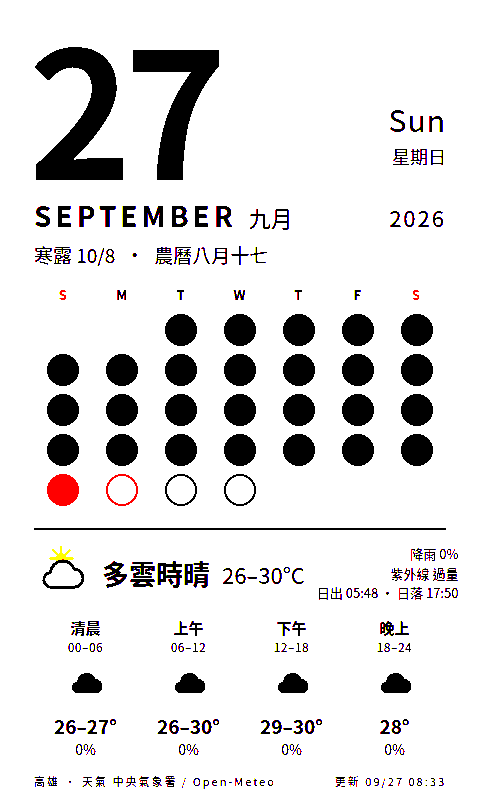
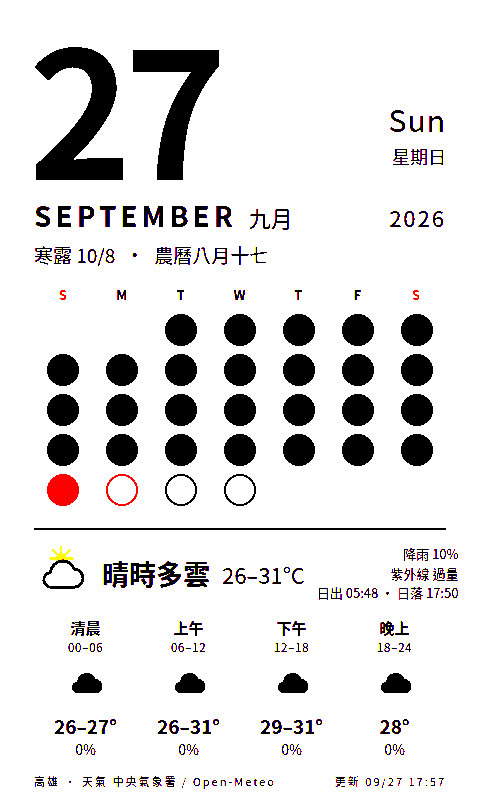
deploy: cf7d1051eb6821bc691ba0ade4beb12cdf9fe0ef

diff --git a/calendar.html b/calendar.html
@@ -54,9 +54,9 @@
   <div class="today"><span class="lunar">寒露 10/8</span><span>·</span><span class="lunar">農曆八月十七</span></div>
   <div class="grid"><div class="h we">S</div><div class="h">M</div><div class="h">T</div><div class="h">W</div><div class="h">T</div><div class="h">F</div><div class="h we">S</div><div class="dot empty"></div><div class="dot empty"></div><div class="dot past" title="1"></div><div class="dot past" title="2"></div><div class="dot past" title="3"></div><div class="dot past" title="4"></div><div class="dot past" title="5"></div><div class="dot past" title="6"></div><div class="dot past" title="7"></div><div class="dot past" title="8"></div><div class="dot past" title="9"></div><div class="dot past" title="10"></div><div class="dot past" title="11"></div><div class="dot past" title="12"></div><div class="dot past" title="13"></div><div class="dot past" title="14"></div><div class="dot past" title="15"></div><div class="dot past" title="16"></div><div class="dot past" title="17"></div><div class="dot past" title="18"></div><div class="dot past" title="19"></div><div class="dot past" title="20"></div><div class="dot past" title="21"></div><div class="dot past" title="22"></div><div class="dot past" title="23"></div><div class="dot past" title="24"></div><div class="dot past" title="25"></div><div class="dot past" title="26"></div><div class="dot now" title="27"></div><div class="dot future hol" title="28"></div><div class="dot future" title="29"></div><div class="dot future" title="30"></div></div>
   <div class="wx"><div class="line">
-    <div class="wxhead"><svg viewBox="0 0 64 68" xmlns="http://www.w3.org/2000/svg"><g transform="translate(12 -4) scale(.6)"><circle cx="32" cy="32" r="11" fill="#f5c400"/><g stroke="#f5c400" stroke-width="4" stroke-linecap="round"><line x1="32" y1="32" x2="32" y2="8" transform="rotate(0 32 32)"/><line x1="32" y1="32" x2="32" y2="8" transform="rotate(45 32 32)"/><line x1="32" y1="32" x2="32" y2="8" transform="rotate(90 32 32)"/><line x1="32" y1="32" x2="32" y2="8" transform="rotate(135 32 32)"/><line x1="32" y1="32" x2="32" y2="8" transform="rotate(180 32 32)"/><line x1="32" y1="32" x2="32" y2="8" transform="rotate(225 32 32)"/><line x1="32" y1="32" x2="32" y2="8" transform="rotate(270 32 32)"/><line x1="32" y1="32" x2="32" y2="8" transform="rotate(315 32 32)"/></g></g><path d="M20 50h26a11 11 0 0 0 1-22 15 15 0 0 0-29 4 9 9 0 0 0 2 18z" fill="#fff" stroke="#000" stroke-width="3.5" stroke-linejoin="round"/></svg><span class="desc">多雲時晴</span><span class="temp">26–30°C</span>
-      <div class="meta">降雨 0%<br>紫外線 過量<br>日出 05:48 · 日落 17:50</div></div>
-    <div class="slots"><div class="slot"><div class="n">清晨</div><div class="hrs">00–06</div><svg viewBox="0 0 64 68" xmlns="http://www.w3.org/2000/svg"><path d="M20 50h26a11 11 0 0 0 1-22 15 15 0 0 0-29 4 9 9 0 0 0 2 18z" fill="#000"/></svg><div class="t">26–27°</div><div class="p dry">0%</div></div><div class="slot"><div class="n">上午</div><div class="hrs">06–12</div><svg viewBox="0 0 64 68" xmlns="http://www.w3.org/2000/svg"><path d="M20 50h26a11 11 0 0 0 1-22 15 15 0 0 0-29 4 9 9 0 0 0 2 18z" fill="#000"/></svg><div class="t">26–30°</div><div class="p dry">0%</div></div><div class="slot"><div class="n">下午</div><div class="hrs">12–18</div><svg viewBox="0 0 64 68" xmlns="http://www.w3.org/2000/svg"><path d="M20 50h26a11 11 0 0 0 1-22 15 15 0 0 0-29 4 9 9 0 0 0 2 18z" fill="#000"/></svg><div class="t">29–30°</div><div class="p dry">0%</div></div><div class="slot"><div class="n">晚上</div><div class="hrs">18–24</div><svg viewBox="0 0 64 68" xmlns="http://www.w3.org/2000/svg"><path d="M20 50h26a11 11 0 0 0 1-22 15 15 0 0 0-29 4 9 9 0 0 0 2 18z" fill="#000"/></svg><div class="t">28°</div><div class="p dry">0%</div></div></div>
+    <div class="wxhead"><svg viewBox="0 0 64 68" xmlns="http://www.w3.org/2000/svg"><g transform="translate(12 -4) scale(.6)"><circle cx="32" cy="32" r="11" fill="#f5c400"/><g stroke="#f5c400" stroke-width="4" stroke-linecap="round"><line x1="32" y1="32" x2="32" y2="8" transform="rotate(0 32 32)"/><line x1="32" y1="32" x2="32" y2="8" transform="rotate(45 32 32)"/><line x1="32" y1="32" x2="32" y2="8" transform="rotate(90 32 32)"/><line x1="32" y1="32" x2="32" y2="8" transform="rotate(135 32 32)"/><line x1="32" y1="32" x2="32" y2="8" transform="rotate(180 32 32)"/><line x1="32" y1="32" x2="32" y2="8" transform="rotate(225 32 32)"/><line x1="32" y1="32" x2="32" y2="8" transform="rotate(270 32 32)"/><line x1="32" y1="32" x2="32" y2="8" transform="rotate(315 32 32)"/></g></g><path d="M20 50h26a11 11 0 0 0 1-22 15 15 0 0 0-29 4 9 9 0 0 0 2 18z" fill="#fff" stroke="#000" stroke-width="3.5" stroke-linejoin="round"/></svg><span class="desc">晴時多雲</span><span class="temp">26–31°C</span>
+      <div class="meta">降雨 10%<br>紫外線 過量<br>日出 05:48 · 日落 17:50</div></div>
+    <div class="slots"><div class="slot"><div class="n">清晨</div><div class="hrs">00–06</div><svg viewBox="0 0 64 68" xmlns="http://www.w3.org/2000/svg"><path d="M20 50h26a11 11 0 0 0 1-22 15 15 0 0 0-29 4 9 9 0 0 0 2 18z" fill="#000"/></svg><div class="t">26–27°</div><div class="p dry">0%</div></div><div class="slot"><div class="n">上午</div><div class="hrs">06–12</div><svg viewBox="0 0 64 68" xmlns="http://www.w3.org/2000/svg"><path d="M20 50h26a11 11 0 0 0 1-22 15 15 0 0 0-29 4 9 9 0 0 0 2 18z" fill="#000"/></svg><div class="t">26–31°</div><div class="p dry">0%</div></div><div class="slot"><div class="n">下午</div><div class="hrs">12–18</div><svg viewBox="0 0 64 68" xmlns="http://www.w3.org/2000/svg"><path d="M20 50h26a11 11 0 0 0 1-22 15 15 0 0 0-29 4 9 9 0 0 0 2 18z" fill="#000"/></svg><div class="t">29–31°</div><div class="p dry">0%</div></div><div class="slot"><div class="n">晚上</div><div class="hrs">18–24</div><svg viewBox="0 0 64 68" xmlns="http://www.w3.org/2000/svg"><path d="M20 50h26a11 11 0 0 0 1-22 15 15 0 0 0-29 4 9 9 0 0 0 2 18z" fill="#000"/></svg><div class="t">28°</div><div class="p dry">0%</div></div></div>
   </div></div>
-  <div class="foot"><span>高雄 · 天氣 中央氣象署 / Open-Meteo</span><span>更新 09/27 08:33</span></div>
+  <div class="foot"><span>高雄 · 天氣 中央氣象署 / Open-Meteo</span><span>更新 09/27 17:57</span></div>
 </div></body></html>
